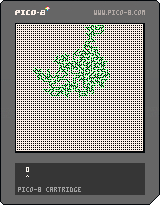
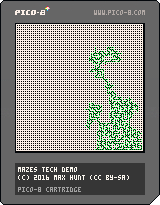
Added title and copyright lines.

diff --git a/mazes.js b/mazes.js
@@ -68,13 +68,13 @@ var _cartdat=[
 0,0,0,0,0,0,0,0,0,0,0,0,0,0,0,0,0,16,0,0,0,0,0,0,0,0,0,0,0,0,0,0,0,0,0,0,0,0,0,0,0,0,0,0,0,0,0,0,0,0,0,0,0,0,0,0,0,0,0,0,0,0,0,0,0,0,0,0,0,0,0,0,0,0,0,0,0,0,0,0,0,0,0,0,0,16,0,0,0,0,0,0,0,0,0,0,0,0,0,0,0,0,0,0,0,0,0,0,0,0,0,0,0,0,0,0,0,0,0,0,0,0,0,0,0,0,0,0,0,0,0,0,0,0,0,0,0,0,0,0,0,0,0,0,0,0,0,0,0,0,0,0,0,16,0,0,0,0,0,0,0,0,0,0,0,0,0,0,0,0,0,0,0,0,0,0,0,0,0,0,0,0,0,0,0,0,0,0,0,0,0,0,0,0,0,0,0,0,0,0,0,0,0,0,0,0,0,0,0,0,0,0,0,0,0,0,0,0,0,0,0,16,0,0,0,0,0,0,0,0,0,0,0,0,0,0,0,0,0,0,0,0,0,0,0,0,0,0,0,0,0,0,0,0,0,0,
 0,0,0,0,0,0,0,0,0,0,0,0,0,0,0,0,0,0,0,0,0,0,0,0,0,0,0,0,0,0,0,0,0,16,0,0,0,0,0,0,0,0,0,0,0,0,0,0,0,0,0,0,0,0,0,0,0,0,0,0,0,0,0,0,0,0,0,0,0,0,0,0,0,0,0,0,0,0,0,0,0,0,0,0,0,0,0,0,0,0,0,0,0,0,0,0,0,0,0,0,0,16,0,0,0,0,0,0,0,0,0,0,0,0,0,0,0,0,0,0,0,0,0,0,0,0,0,0,0,0,0,0,0,0,0,0,0,0,0,0,0,0,0,0,0,0,0,0,0,0,0,0,0,0,0,0,0,0,0,0,0,0,0,0,0,0,0,0,0,16,0,0,0,0,0,0,0,0,0,0,0,0,0,0,0,0,0,0,0,0,0,0,0,0,0,0,0,0,0,0,0,0,0,0,0,0,0,0,0,0,0,0,0,0,0,0,0,0,0,0,0,0,0,0,0,0,0,0,0,0,0,0,0,0,0,0,0,16,0,0,0,0,0,0,0,0,0,0,0,0,0,0,0,0,0,0,
 0,0,0,0,0,0,0,0,0,0,0,0,0,0,0,0,0,0,0,0,0,0,0,0,0,0,0,0,0,0,0,0,0,0,0,0,0,0,0,0,0,0,0,0,0,0,0,0,0,16,0,0,0,0,0,0,0,0,0,0,0,0,0,0,0,0,0,0,0,0,0,0,0,0,0,0,0,0,0,0,0,0,0,0,0,0,0,0,0,0,0,0,0,0,0,0,0,0,0,0,0,0,0,0,0,0,0,0,0,0,0,0,0,0,0,0,0,16,0,0,0,0,0,0,0,0,0,0,0,0,0,0,0,0,0,0,0,0,0,0,0,0,0,0,0,0,0,0,0,0,0,0,0,0,0,0,0,0,0,0,0,0,0,0,0,0,0,0,0,0,0,0,0,0,0,0,0,0,0,0,0,0,0,0,0,16,0,0,0,0,0,0,0,0,0,0,0,0,0,0,0,0,0,0,0,0,0,0,0,0,0,0,0,0,0,0,0,0,0,0,0,0,0,0,0,0,0,0,0,0,0,0,0,0,0,0,0,0,0,0,0,0,0,0,0,0,0,0,0,0,0,0,0,16,0,0,
-58,99,58,0,18,120,0,0,0,45,0,45,2,2,2,3,1,60,55,0,94,60,71,0,124,60,30,6,48,0,45,27,0,45,49,4,61,129,62,22,34,62,70,5,1,1,25,13,38,17,2,51,2,44,45,1,1,18,33,26,15,32,21,27,26,2,14,24,13,26,23,59,61,42,42,26,57,25,43,1,2,62,37,51,62,19,2,18,27,30,2,21,51,4,57,25,57,4,2,16,27,61,73,46,21,47,61,60,0,9,61,45,22,61,29,26,61,93,0,9,61,111,46,22,62,82,61,145,56,24,17,18,32,67,25,3,61,215,30,21,19,20,61,248,62,31,33,28,62,253,47,56,16,27,35,26,64,244,47,56,34,21,31,21,32,17,16,51,65,28,2,17,26,16,1,60,53,2,30,17,32,33,30,26,72,60,1,61,38,75,144,21,26,13,30,37,59,32,30,17,75,161,77,22,76,249,76,112,74,65,75,114,76,61,2,0,9,21,18,2,42,42,21,51,51,25,43,2,13,26,16,2,42,22,51,51,26,43,43,2,32,20,17,26,61,47,86,17,16,27,2,26,27,32,20,21,
-26,19,63,32,17,24,31,17,63,36,63,67,62,87,2,0,9,76,255,51,2,4,61,201,50,4,80,113,61,42,64,121,67,49,64,249,78,155,64,168,64,21,81,122,64,182,18,24,30,42,30,26,16,42,5,43,43,51,51,3,69,249,69,249,69,249,69,201,68,251,68,251,68,251,0,9,87,55,87,253,87,253,102,29,31,21,16,17,35,21,26,16,17,30,87,252,87,252,87,156,15,33,30,30,17,26,32,59,30,33,26,94,40,88,219,0,9,2,88,27,88,41,88,56,88,39,88,85,0,9,2,2,88,214,0,9,2,88,86,62,63,62,118,105,227,51,88,18,61,167,88,98,61,72,92,89,66,57,114,19,84,242,67,157,15,24,27,31,17,2,71,23,68,61,108,34,51,22,0,45,72,158,50,87,110,61,164,4,43,120,22,69,150,111,41,111,79,69,184,93,34,61,75,33,28,71,81,78,232,74,62,61,234,50,73,238,75,245,75,245,79,40,117,43,90,74,118,241,118,193,13,24,16,27,33,31,59,14,30,27,90,247,134,252,18,24,21,28,42,135,20,16,30,13,35,136,
-68,138,35,61,153,18,21,26,21,31,20,125,31,18,13,101,61,36,139,31,107,98,118,30,50,114,27,37,61,147,25,61,67,138,58,36,47,46,37,129,143,117,20,24,13,31,136,37,32,21,25,17,67,36,35,20,21,24,17,122,33,66,117,125,73,32,27,59,19,27,66,151,7,84,47,2,26,36,51,36,60,39,37,51,37,134,25,127,28,62,55,115,18,124,122,62,18,25,13,36,42,4,57,36,0,45,4,63,34,101,38,147,51,26,68,26,26,68,139,39,51,4,127,126,62,241,70,108,61,107,72,69,90,65,62,239,93,98,160,25,64,60,28,31,17,32,42,26,37,53,5,0,45,153,23,36,53,5,57,3,68,55,117,94,135,78,71,86,5,71,182,21,26,42,25,57,36,99,24,71,246,71,246,71,246,71,246,83,139,70,144,76,184,72,126,71,134,71,69,71,244,71,180,6,82,138,37,82,90,37,82,250,82,250,82,250,82,250,82,186,122,102,85,235,125,119,82,253,82,59,83,18,82,253,94,115,90,143,71,41,82,29,26,57,37,82,253,94,243,94,243,94,243,94,179,70,
-161,99,182,73,146,83,176,82,46,71,231,152,56,85,193,96,28,4,104,63,36,51,26,108,33,37,51,26,108,33,62,245,11,110,37,110,40,27,35,51,114,98,149,24,42,119,56,177,118,197,67,3,57,40,200,42,102,18,197,41,103,72,3,57,21,57,10,43,102,93,197,109,62,55,46,4,47,62,186,22,57,3,62,202,186,132,63,138,157,106,63,83,108,29,2,21,60,37,10,145,75,117,107,155,164,120,123,159,23,63,199,113,16,63,105,188,37,114,30,62,243,62,35,114,47,62,35,142,58,66,228,155,60,66,243,69,42,65,46,69,172,151,116,62,242,66,50,121,114,72,230,208,105,129,175,62,90,89,175,140,38,51,86,22,91,112,86,72,14,32,26,28,42,8,204,16,211,170,176,48,15,20,17,15,23,148,121,88,37,142,111,144,28,30,33,191,34,210,218,84,246,70,250,140,217,83,34,154,234,80,138,193,255,221,220,140,32,236,127,160,154,236,28,15,24,31,161,47,15,4,51,10,192,22,5,60,54,6,60,44,243,31,142,30,2,16,17,14,33,19,155,18,72,57,2,31,
-27,25,17,35,20,17,30,17,61,34,19,17,32,62,55,62,67,15,27,24,27,33,30,31,62,43,20,17,24,28,2,16,21,13,19,26,185,44,167,42,222,17,2,64,24,31,1,196,41,42,65,52,224,72,67,41,11,67,40,4,4,67,40,4,5,234,66,108,134,108,243,108,99,108,130,107,255,107,159,250,98,40,234,211,63,54,249,87,108,209,15,165,44,207,50,25,107,254,207,101,107,253,15,5,197,50,105,90,63,156,105,246,105,245,15,6,63,155,250,112,249,51,25,17,26,33,59,251,28,25,31,51,44,44,0,34,249,152,0,34,57,250,149,45,57,174,57,174,45,175,33,44,0,34,194,64,0,45,194,80,31,24,27,35,57,30,17,15,54,31,21,38,17,48,6,3,43,0,34,57,196,194,64,240,228,132,62,27,229,129,45,45,1,21,26,59,69,36,51,105,54,31,17,24,17,15,191,74,250,35,59,18,245,34,70,149,61,70,67,38,251,18,9,6,234,165,32,13,30,32,59,93,89,201,46,64,128,75,131,46,66,96,47,46,5,47,236,120,66,90,204,54,65,60,57,66,
-118,238,29,70,96,204,76,241,202,208,66,81,18,42,43,188,30,107,88,28,30,21,26,32,42,0,34,72,75,213,25,19,27,30,21,32,20,25,54,78,20,9,57,2,4,141,80,62,86,48,245,30,38,17,54,0,34,56,56,73,122,56,56,0,34,2,49,62,77,3,143,76,99,130,87,125,207,70,107,42,79,99,2,51,51,2,21,43,67,110,64,17,153,29,53,9,50,4,7,148,64,69,87,76,156,243,27,4,47,57,8,62,102,150,37,94,118,121,186,221,51,223,84,251,37,87,65,212,99,76,148,230,22,235,59,225,250,232,41,206,31,227,89,231,202,33,28,16,13,32,221,140,141,36,42,249,67,166,22,167,46,230,94,236,60,252,18,143,52,7,169,125,91,248,62,104,145,109,2,13,67,28,227,33,98,89,173,119,224,31,61,151,225,114,73,111,146,120,243,143,75,157,65,37,151,62,5,68,138,84,121,85,133,229,21,41,42,87,151,218,63,64,252,64,108,6,64,252,64,172,222,27,64,252,74,142,111,122,79,42,63,115,244,34,71,246,163,20,81,30,240,82,113,113,0,45,
-246,46,74,247,74,103,4,63,241,17,65,61,234,56,117,117,244,60,112,135,136,33,61,156,235,34,114,115,9,134,19,112,205,111,22,30,27,254,36,24,27,15,13,24,199,34,1,2,31,18,36,70,28,93,91,89,51,114,26,106,25,93,62,254,17,162,91,2,31,28,30,200,29,2,8,195,18,7,111,21,195,25,143,45,61,55,4,11,115,24,60,20,7,206,61,62,41,6,197,24,8,109,23,8,10,57,2,6,62,90,207,21,21,49,4,79,43,64,26,5,57,9,3,57,7,248,57,107,104,2,21,74,127,144,55,70,109,1,103,69,181,35,69,67,111,97,105,119,252,42,0,0,0,0,0,0,0,0,0,0,0,0,0,0,0,0,0,0,0,0,0,0,0,0,0,0,0,0,0,0,0,0,0,0,0,0,0,0,0,0,0,0,0,0,0,0,0,0,0,0,0,0,0,0,0,0,0,0,0,0,0,0,0,0,0,0,0,0,0,0,0,0,0,0,0,0,0,0,0,0,0,0,0,0,0,0,0,0,0,0,0,0,0,0,0,0,0,0,0,0,0,0,0,0,0,0,
+58,99,58,0,18,172,0,0,0,45,0,45,2,25,13,38,17,31,2,32,17,15,20,2,16,17,25,27,1,61,19,42,15,43,2,5,3,4,9,61,28,36,2,20,33,26,32,61,18,15,2,14,37,0,45,31,13,43,1,62,33,2,2,3,60,71,0,94,60,78,0,124,63,22,6,48,0,45,27,0,45,49,4,61,129,62,22,34,62,77,5,1,1,66,38,2,51,2,44,45,1,1,18,33,26,15,32,21,27,26,2,14,24,13,26,23,59,68,32,42,26,57,25,43,1,68,59,51,62,19,2,18,27,30,2,21,51,4,57,25,57,4,2,16,27,61,73,46,21,47,61,60,0,9,61,45,22,61,29,26,61,93,0,9,61,111,46,22,62,82,61,145,56,24,17,18,32,67,25,3,61,215,30,21,19,20,61,248,62,31,33,28,62,253,47,56,16,27,35,26,64,244,47,56,34,21,31,21,32,17,16,51,65,28,2,17,26,16,1,60,53,2,30,17,32,33,30,26,81,55,1,61,38,75,144,21,26,13,30,37,59,32,30,17,75,161,77,22,76,249,76,112,74,65,75,114,
+76,61,2,0,9,21,18,2,42,42,21,51,51,25,43,2,13,26,16,2,42,22,51,51,26,43,43,2,32,20,17,26,61,47,89,21,16,27,2,26,27,32,20,21,26,19,63,32,17,24,31,17,63,36,63,67,62,87,2,0,9,76,255,51,2,4,61,201,50,4,80,113,61,42,64,121,67,49,64,249,78,155,64,168,64,21,81,122,64,182,18,24,30,42,30,26,16,42,5,43,43,51,51,3,69,249,69,249,69,249,69,201,68,251,68,251,68,251,0,9,87,55,87,253,87,253,102,29,31,21,16,17,35,21,26,16,17,30,87,252,87,252,87,156,15,33,30,30,17,26,32,59,30,33,26,94,40,88,219,0,9,2,88,27,88,41,88,56,88,39,88,85,0,9,2,2,88,214,0,9,2,88,86,62,63,62,118,105,227,51,88,18,61,167,88,98,61,72,92,89,66,57,114,19,84,242,67,157,15,24,27,31,17,2,71,23,68,61,108,34,51,22,0,45,72,158,50,87,110,61,164,4,43,120,22,69,150,111,41,111,79,69,184,93,34,61,75,33,28,71,81,78,232,74,62,61,
+234,50,73,238,75,245,75,245,79,40,117,43,90,74,118,241,118,193,13,24,16,27,33,31,59,14,30,27,90,247,134,252,18,24,21,28,42,135,20,16,30,13,35,136,68,144,41,61,153,18,21,26,21,31,20,125,31,18,13,101,61,36,139,31,107,98,118,30,50,114,27,37,61,147,25,61,67,138,58,36,47,46,37,129,143,117,20,24,13,31,136,37,32,21,25,17,67,36,35,20,21,24,17,122,33,66,117,125,73,32,27,59,19,27,66,151,7,84,47,2,26,36,51,36,60,39,37,51,37,134,25,127,28,62,55,115,18,124,122,62,18,154,26,42,4,57,36,0,45,4,63,34,101,38,147,51,26,68,26,26,68,139,39,51,4,127,126,62,241,70,108,61,107,72,69,90,65,62,239,93,98,160,25,64,60,28,31,17,32,42,26,37,53,5,0,45,153,23,36,53,5,57,3,68,55,117,94,135,78,71,86,5,71,182,21,26,42,25,57,36,99,24,71,246,71,246,71,246,71,246,83,139,70,144,76,184,72,126,71,134,71,69,71,244,71,180,6,82,138,37,82,90,37,82,250,82,
+250,82,250,82,250,82,186,122,102,85,235,125,119,82,253,82,59,83,18,82,253,94,115,90,143,71,41,82,29,26,57,37,82,253,94,243,94,243,94,243,94,179,70,161,99,182,73,146,83,176,82,46,71,231,152,56,85,193,96,28,4,104,63,36,51,26,108,33,37,51,26,108,33,62,245,11,110,37,110,40,27,35,51,114,98,149,24,42,119,56,177,118,197,67,3,57,40,207,32,102,18,197,41,103,72,3,57,21,57,10,43,102,93,197,109,62,55,46,4,47,62,186,22,57,3,62,202,186,132,63,138,157,106,63,83,108,29,2,21,60,37,10,145,75,117,107,155,164,120,123,159,23,63,199,113,16,63,105,188,37,114,30,62,243,62,35,114,47,62,35,142,58,66,228,155,60,66,243,69,42,65,46,69,172,151,116,62,242,66,50,121,114,72,230,208,105,129,175,62,90,89,175,140,38,51,86,22,91,112,86,72,14,32,26,28,42,8,204,16,211,170,176,48,15,20,17,15,23,148,121,88,37,142,111,144,28,30,33,191,34,210,218,84,246,70,250,140,217,83,34,154,234,80,138,193,255,
+221,220,140,32,236,127,160,154,236,28,15,24,31,161,47,15,4,51,10,192,22,5,60,54,6,60,44,247,19,142,30,246,28,14,33,19,155,18,72,57,2,31,27,25,17,35,20,17,30,17,61,34,19,17,32,62,55,62,67,15,27,24,27,33,30,250,18,27,2,20,17,24,28,2,16,21,13,19,26,185,44,167,42,222,17,2,64,24,31,1,196,41,42,65,52,224,72,67,41,11,67,40,4,4,67,40,4,5,234,66,108,134,108,243,108,99,108,130,107,255,107,159,250,98,40,234,211,63,54,249,87,108,209,15,165,44,207,50,25,107,254,207,101,107,253,15,5,197,50,105,90,63,156,105,246,105,245,15,6,63,155,250,112,249,51,25,17,26,33,59,251,28,25,31,51,44,44,0,34,249,152,0,34,57,250,149,45,57,174,57,174,45,175,33,44,0,34,194,64,0,45,194,80,31,24,27,35,57,30,17,15,54,31,21,38,17,48,6,3,43,0,34,57,196,194,64,240,228,132,62,27,229,129,45,45,1,21,26,59,69,36,51,105,54,31,17,24,17,15,191,74,250,35,59,18,245,
+34,70,149,61,70,67,38,251,18,9,6,234,165,32,13,30,32,59,93,89,201,46,64,128,75,131,46,66,96,47,46,5,47,236,120,66,90,204,54,65,60,57,66,118,238,29,70,96,204,76,241,202,208,66,81,18,42,43,188,30,107,88,28,30,21,26,32,42,0,34,72,75,213,25,19,27,30,21,32,20,25,54,78,20,9,57,2,4,141,80,62,86,48,245,30,38,17,54,0,34,56,56,73,122,56,56,0,34,2,49,62,77,3,143,76,99,130,87,125,207,70,107,42,79,99,2,51,51,2,21,43,67,110,64,17,153,29,53,9,50,4,7,148,64,69,87,76,156,243,27,4,47,57,8,62,102,150,37,94,118,121,186,221,51,223,84,251,37,87,65,212,99,76,148,230,22,235,59,225,250,232,41,206,31,227,89,231,202,33,28,16,13,32,221,140,141,36,42,249,67,166,22,167,46,230,94,236,60,252,18,143,52,7,169,125,91,248,62,104,145,109,2,13,67,28,227,33,98,89,173,119,224,31,61,151,225,114,73,111,146,120,243,143,75,157,65,37,151,62,5,68,138,84,121,85,133,
+229,21,41,42,87,151,218,63,64,252,64,108,6,64,252,64,172,222,27,64,252,74,142,111,122,79,42,63,115,244,34,71,246,163,20,81,30,240,82,113,113,0,45,246,46,74,247,74,103,4,63,241,17,65,61,234,56,117,117,244,60,112,135,136,33,61,156,235,34,114,115,9,134,19,112,205,111,22,30,27,254,36,24,27,15,13,24,199,34,1,2,31,18,36,70,28,93,91,89,51,114,26,106,25,93,62,254,17,162,91,2,31,28,30,200,29,2,8,195,18,7,111,21,195,25,143,45,61,55,4,11,115,24,60,20,7,206,61,62,41,6,197,24,8,109,23,8,10,57,2,6,62,90,207,21,21,49,4,79,43,64,26,5,57,9,3,57,7,248,57,107,104,2,21,74,127,144,55,70,109,1,103,69,181,35,69,67,111,97,105,119,252,42,0,0,0,0,0,0,0,0,0,0,0,0,0,0,0,0,0,0,0,0,0,0,0,0,0,0,0,0,0,0,0,0,0,0,0,0,0,0,0,0,0,0,0,0,0,0,0,0,0,0,0,0,0,0,0,0,0,0,0,0,0,0,0,
 0,0,0,0,0,0,0,0,0,0,0,0,0,0,0,0,0,0,0,0,0,0,0,0,0,0,0,0,0,0,0,0,0,0,0,0,0,0,0,0,0,0,0,0,0,0,0,0,0,0,0,0,0,0,0,0,0,0,0,0,0,0,0,0,0,0,0,0,0,0,0,0,0,0,0,0,0,0,0,0,0,0,0,0,0,0,0,0,0,0,0,0,0,0,0,0,0,0,0,0,0,0,0,0,0,0,0,0,0,0,0,0,0,0,0,0,0,0,0,0,0,0,0,0,0,0,0,0,0,0,0,0,0,0,0,0,0,0,0,0,0,0,0,0,0,0,0,0,0,0,0,0,0,0,0,0,0,0,0,0,0,0,0,0,0,0,0,0,0,0,0,0,0,0,0,0,0,0,0,0,0,0,0,0,0,0,0,0,0,0,0,0,0,0,0,0,0,0,0,0,0,0,0,0,0,0,0,0,0,0,0,0,0,0,0,0,0,0,0,0,0,0,0,0,0,0,0,0,0,0,0,0,0,0,0,0,0,0,0,0,0,0,0,0,0,0,0,0,0,0,0,0,0,0,0,0,
 0,0,0,0,0,0,0,0,0,0,0,0,0,0,0,0,0,0,0,0,0,0,0,0,0,0,0,0,0,0,0,0,0,0,0,0,0,0,0,0,0,0,0,0,0,0,0,0,0,0,0,0,0,0,0,0,0,0,0,0,0,0,0,0,0,0,0,0,0,0,0,0,0,0,0,0,0,0,0,0,0,0,0,0,0,0,0,0,0,0,0,0,0,0,0,0,0,0,0,0,0,0,0,0,0,0,0,0,0,0,0,0,0,0,0,0,0,0,0,0,0,0,0,0,0,0,0,0,0,0,0,0,0,0,0,0,0,0,0,0,0,0,0,0,0,0,0,0,0,0,0,0,0,0,0,0,0,0,0,0,0,0,0,0,0,0,0,0,0,0,0,0,0,0,0,0,0,0,0,0,0,0,0,0,0,0,0,0,0,0,0,0,0,0,0,0,0,0,0,0,0,0,0,0,0,0,0,0,0,0,0,0,0,0,0,0,0,0,0,0,0,0,0,0,0,0,0,0,0,0,0,0,0,0,0,0,0,0,0,0,0,0,0,0,0,0,0,0,0,0,0,0,0,0,0,0,
 0,0,0,0,0,0,0,0,0,0,0,0,0,0,0,0,0,0,0,0,0,0,0,0,0,0,0,0,0,0,0,0,0,0,0,0,0,0,0,0,0,0,0,0,0,0,0,0,0,0,0,0,0,0,0,0,0,0,0,0,0,0,0,0,0,0,0,0,0,0,0,0,0,0,0,0,0,0,0,0,0,0,0,0,0,0,0,0,0,0,0,0,0,0,0,0,0,0,0,0,0,0,0,0,0,0,0,0,0,0,0,0,0,0,0,0,0,0,0,0,0,0,0,0,0,0,0,0,0,0,0,0,0,0,0,0,0,0,0,0,0,0,0,0,0,0,0,0,0,0,0,0,0,0,0,0,0,0,0,0,0,0,0,0,0,0,0,0,0,0,0,0,0,0,0,0,0,0,0,0,0,0,0,0,0,0,0,0,0,0,0,0,0,0,0,0,0,0,0,0,0,0,0,0,0,0,0,0,0,0,0,0,0,0,0,0,0,0,0,0,0,0,0,0,0,0,0,0,0,0,0,0,0,0,0,0,0,0,0,0,0,0,0,0,0,0,0,0,0,0,0,0,0,0,0,0,

diff --git a/reactor.js b/reactor.js
@@ -68,11 +68,11 @@ var _cartdat=[
 0,0,0,0,0,0,0,0,0,0,0,0,0,0,0,0,0,16,0,0,0,0,0,0,0,0,0,0,0,0,0,0,0,0,0,0,0,0,0,0,0,0,0,0,0,0,0,0,0,0,0,0,0,0,0,0,0,0,0,0,0,0,0,0,0,0,0,0,0,0,0,0,0,0,0,0,0,0,0,0,0,0,0,0,0,16,0,0,0,0,0,0,0,0,0,0,0,0,0,0,0,0,0,0,0,0,0,0,0,0,0,0,0,0,0,0,0,0,0,0,0,0,0,0,0,0,0,0,0,0,0,0,0,0,0,0,0,0,0,0,0,0,0,0,0,0,0,0,0,0,0,0,0,16,0,0,0,0,0,0,0,0,0,0,0,0,0,0,0,0,0,0,0,0,0,0,0,0,0,0,0,0,0,0,0,0,0,0,0,0,0,0,0,0,0,0,0,0,0,0,0,0,0,0,0,0,0,0,0,0,0,0,0,0,0,0,0,0,0,0,0,16,0,0,0,0,0,0,0,0,0,0,0,0,0,0,0,0,0,0,0,0,0,0,0,0,0,0,0,0,0,0,0,0,0,0,
 0,0,0,0,0,0,0,0,0,0,0,0,0,0,0,0,0,0,0,0,0,0,0,0,0,0,0,0,0,0,0,0,0,16,0,0,0,0,0,0,0,0,0,0,0,0,0,0,0,0,0,0,0,0,0,0,0,0,0,0,0,0,0,0,0,0,0,0,0,0,0,0,0,0,0,0,0,0,0,0,0,0,0,0,0,0,0,0,0,0,0,0,0,0,0,0,0,0,0,0,0,16,0,0,0,0,0,0,0,0,0,0,0,0,0,0,0,0,0,0,0,0,0,0,0,0,0,0,0,0,0,0,0,0,0,0,0,0,0,0,0,0,0,0,0,0,0,0,0,0,0,0,0,0,0,0,0,0,0,0,0,0,0,0,0,0,0,0,0,16,0,0,0,0,0,0,0,0,0,0,0,0,0,0,0,0,0,0,0,0,0,0,0,0,0,0,0,0,0,0,0,0,0,0,0,0,0,0,0,0,0,0,0,0,0,0,0,0,0,0,0,0,0,0,0,0,0,0,0,0,0,0,0,0,0,0,0,16,0,0,0,0,0,0,0,0,0,0,0,0,0,0,0,0,0,0,
 0,0,0,0,0,0,0,0,0,0,0,0,0,0,0,0,0,0,0,0,0,0,0,0,0,0,0,0,0,0,0,0,0,0,0,0,0,0,0,0,0,0,0,0,0,0,0,0,0,16,0,0,0,0,0,0,0,0,0,0,0,0,0,0,0,0,0,0,0,0,0,0,0,0,0,0,0,0,0,0,0,0,0,0,0,0,0,0,0,0,0,0,0,0,0,0,0,0,0,0,0,0,0,0,0,0,0,0,0,0,0,0,0,0,0,0,0,16,0,0,0,0,0,0,0,0,0,0,0,0,0,0,0,0,0,0,0,0,0,0,0,0,0,0,0,0,0,0,0,0,0,0,0,0,0,0,0,0,0,0,0,0,0,0,0,0,0,0,0,0,0,0,0,0,0,0,0,0,0,0,0,0,0,0,0,16,0,0,0,0,0,0,0,0,0,0,0,0,0,0,0,0,0,0,0,0,0,0,0,0,0,0,0,0,0,0,0,0,0,0,0,0,0,0,0,0,0,0,0,0,0,0,0,0,0,0,0,0,0,0,0,0,0,0,0,0,0,0,0,0,0,0,0,16,0,0,
-58,99,58,0,10,212,0,0,28,13,30,32,21,15,24,17,31,2,51,2,44,45,1,17,36,28,24,27,31,21,27,26,61,80,28,36,61,24,9,7,1,28,37,60,88,24,21,34,17,62,27,32,30,33,17,1,60,44,63,40,6,1,13,26,21,25,64,17,3,1,1,24,17,34,17,24,59,26,33,25,51,4,60,76,26,51,6,3,1,32,13,30,19,17,32,51,9,1,32,51,62,20,18,33,26,15,32,66,20,2,30,17,31,17,32,59,68,115,42,43,1,2,69,224,26,16,63,144,19,17,26,17,30,13,32,17,63,147,26,63,20,18,27,30,2,21,51,4,57,26,2,16,27,1,2,2,24,27,15,13,24,2,36,51,30,26,16,42,4,5,11,65,21,61,83,37,61,243,2,13,62,70,62,132,21,51,15,27,31,42,13,63,133,22,51,31,21,26,61,161,15,51,18,24,30,42,65,61,8,43,43,50,4,67,18,13,16,16,42,80,121,57,2,44,36,51,36,57,37,51,37,57,21,51,21,57,22,51,22,57,15,51,15,45,73,28,72,45,73,193,33,28,16,72,207,72,
-94,28,2,21,26,2,13,24,24,65,134,43,73,76,28,56,36,2,50,51,60,23,21,74,25,21,18,2,42,61,33,48,83,26,43,2,32,20,17,26,75,30,62,51,84,43,60,59,21,85,38,0,45,62,79,80,44,63,133,49,51,2,77,45,63,215,79,16,63,249,71,56,67,60,37,67,76,22,67,124,37,67,252,94,40,67,92,22,67,92,62,47,67,172,37,67,252,63,71,67,124,63,249,79,249,2,16,30,13,35,79,247,79,247,79,135,98,24,42,87,39,80,16,43,57,2,60,74,37,60,26,28,56,15,85,249,101,42,15,30,17,98,40,108,127,42,36,57,2,37,57,2,25,13,36,30,102,21,98,66,110,28,111,37,90,45,97,27,61,30,30,100,20,62,51,51,62,40,45,1,93,56,113,130,57,63,34,106,19,31,18,36,99,34,92,250,67,177,92,123,66,38,92,93,117,141,92,94,118,30,56,30,93,32,100,37,92,30,61,64,89,26,61,41,70,44,93,117,16,17,63,175,68,106,93,83,99,242,99,162,112,95,16,5,126,17,98,62,0,45,67,55,36,43,53,99,
-44,0,45,60,76,2,50,92,62,60,62,37,61,58,60,108,101,34,102,24,63,31,102,22,71,48,53,71,70,102,111,82,251,105,35,85,41,82,31,6,3,64,48,71,62,114,144,71,59,104,95,94,240,94,144,80,253,80,253,80,173,15,21,30,15,86,46,67,46,72,56,60,71,30,57,2,32,41,4,9,119,255,119,175,24,13,37,17,30,135,46,117,18,142,66,116,93,118,34,14,32,26,42,3,43,43,2,28,36,0,45,141,20,61,132,4,61,52,50,61,52,28,36,51,25,21,16,42,3,57,28,36,57,135,83,63,107,5,63,43,37,63,203,6,61,52,63,91,37,63,107,37,63,155,67,21,28,42,7,125,149,151,88,18,13,24,31,17,126,38,106,241,68,27,11,64,20,60,21,83,86,153,36,71,49,116,243,116,163,75,251,132,104,31,28,30,42,6,8,73,33,69,25,5,57,5,140,32,67,28,135,36,158,46,48,51,6,135,115,62,59,6,50,5,53,160,39,63,178,68,53,78,51,143,252,124,67,20,33,16,159,54,30,21,26,32,42,0,34,163,61,54,0,34,56,56,
-164,118,57,3,57,3,57,10,62,146,167,35,0,34,57,12,61,103,159,107,168,75,159,63,71,89,159,26,0,45,4,9,53,21,57,9,71,110,151,254,167,79,171,50,167,43,168,254,1,167,241,170,20,173,69,170,42,176,171,93,30,178,73,90,28,179,66,171,202,59,21,26,21,32,66,133,67,100,173,207,26,17,36,68,159,130,39,83,38,180,70,0,45,51,6,60,91,181,45,99,54,64,251,67,160,165,74,181,34,32,102,51,162,28,186,63,49,51,3,162,106,167,253,178,42,136,248,61,166,110,137,167,44,40,194,141,51,65,22,13,26,16,2,26,27,32,112,193,62,56,198,116,48,192,72,127,140,75,194,170,19,105,94,146,52,6,127,77,198,54,115,75,2,87,227,128,198,109,75,111,254,64,83,80,33,193,29,201,116,60,109,202,93,65,253,167,252,88,124,167,45,202,44,15,24,203,51,81,251,150,31,169,255,137,242,61,116,81,149,109,163,76,91,109,90,19,13,25,17,2,27,34,17,30,0,34,57,7,3,57,9,7,109,52,197,112,213,130,112,23,30,27,212,40,204,110,
-192,24,167,32,148,41,35,20,21,24,17,137,64,43,2,51,195,52,143,73,72,71,123,50,3,57,2,8,5,57,2,66,20,2,60,23,120,51,124,41,4,11,57,2,9,60,20,7,212,62,125,59,62,22,8,7,62,30,10,154,23,62,90,21,18,42,21,49,4,200,27,127,44,5,57,9,3,70,28,215,46,18,24,21,28,95,69,142,78,62,56,12,3,43,14,182,21,23,209,151,71,109,0,0,0,0,0,0,0,0,0,0,0,0,0,0,0,0,0,0,0,0,0,0,0,0,0,0,0,0,0,0,0,0,0,0,0,0,0,0,0,0,0,0,0,0,0,0,0,0,0,0,0,0,0,0,0,0,0,0,0,0,0,0,0,0,0,0,0,0,0,0,0,0,0,0,0,0,0,0,0,0,0,0,0,0,0,0,0,0,0,0,0,0,0,0,0,0,0,0,0,0,0,0,0,0,0,0,0,0,0,0,0,0,0,0,0,0,0,0,0,0,0,0,0,0,0,0,0,0,0,0,0,0,0,0,0,0,0,0,0,0,0,0,0,0,0,0,0,0,0,0,0,0,0,0,
+58,99,58,0,11,5,0,0,0,45,0,45,2,30,17,13,15,32,27,30,2,34,4,56,3,1,61,16,42,15,43,2,5,3,4,9,2,25,13,36,2,20,33,26,32,61,18,15,2,14,37,0,45,31,13,43,1,1,28,13,30,32,21,15,24,17,31,2,51,2,44,45,1,17,36,28,24,27,31,21,27,26,61,80,28,36,61,24,9,7,1,28,37,60,88,24,21,34,17,62,27,32,30,33,17,1,60,44,63,40,6,1,13,26,21,25,64,17,3,1,1,24,17,34,17,24,59,26,33,25,51,4,60,76,26,51,6,3,1,32,13,30,19,17,32,51,9,1,32,51,62,20,18,33,26,15,32,66,20,70,27,31,17,32,59,68,115,42,43,1,2,69,224,26,16,63,144,19,17,26,17,30,13,32,17,63,147,26,63,20,18,74,30,21,51,4,57,26,2,16,27,1,2,2,24,27,15,13,24,2,36,51,30,26,16,42,4,5,11,65,21,61,83,37,61,243,2,13,62,70,62,132,21,51,15,27,31,42,77,26,64,104,22,51,31,21,26,61,161,15,51,18,24,30,42,65,
+61,8,43,43,50,4,67,18,13,16,16,42,80,121,57,2,44,36,51,36,57,37,51,37,57,21,51,21,57,22,51,22,57,15,51,15,45,73,28,72,45,73,193,33,28,16,72,207,72,94,28,2,21,26,2,13,24,24,65,134,43,73,76,28,56,36,2,50,51,60,23,21,74,25,21,18,2,42,61,33,48,83,26,43,2,32,20,17,26,75,30,62,51,84,43,60,59,21,85,38,0,45,62,79,80,44,63,133,49,51,2,77,45,63,215,79,16,63,249,71,56,67,60,37,67,76,22,67,124,37,67,252,94,40,67,92,22,67,92,62,47,67,172,37,67,252,63,71,67,124,63,249,79,249,2,16,30,13,35,79,247,79,247,79,135,98,24,42,87,39,80,16,43,57,2,60,74,37,60,26,28,56,15,85,249,101,42,15,112,22,98,24,108,127,42,36,57,2,37,57,112,35,30,102,21,98,66,110,28,111,37,90,45,97,27,61,30,30,100,20,62,51,51,62,40,45,1,93,56,113,130,57,63,34,106,19,31,18,36,99,34,92,250,67,177,92,123,66,38,92,93,117,141,92,94,118,
+30,56,30,93,32,100,37,92,30,61,64,89,26,61,41,70,44,93,117,16,17,63,175,68,106,93,83,99,242,99,162,112,95,16,5,126,17,98,62,0,45,67,55,36,43,53,99,44,0,45,60,76,2,50,92,62,60,62,37,61,58,60,108,101,34,102,24,63,31,102,22,71,48,53,71,70,102,111,82,251,105,35,85,41,82,31,6,3,64,48,71,62,114,144,71,59,104,95,94,240,94,144,80,253,80,253,80,173,15,21,30,15,86,46,67,46,72,56,60,71,30,57,2,32,41,4,9,119,255,119,175,24,13,37,17,30,135,46,117,18,142,66,116,93,118,34,14,32,26,42,3,43,43,2,28,36,0,45,141,20,61,132,4,61,52,50,61,52,28,36,51,25,21,16,42,3,57,28,36,57,135,83,63,107,5,63,43,37,63,203,6,61,52,63,91,37,63,107,37,63,155,67,21,28,42,7,125,149,151,88,18,13,24,31,17,126,38,106,241,68,27,11,64,20,60,21,83,86,153,36,71,49,116,243,116,163,75,251,132,104,31,28,30,42,6,8,73,33,69,25,5,57,5,140,32,67,
+28,135,36,158,46,48,51,6,135,115,62,59,6,50,5,53,160,39,63,178,68,53,78,51,143,252,124,67,20,33,16,159,54,30,21,26,32,42,0,34,163,61,54,0,34,56,56,164,118,57,3,57,3,57,10,62,146,167,35,0,34,57,12,61,103,159,107,168,75,159,63,71,89,159,26,0,45,4,9,53,21,57,9,71,110,151,254,167,79,171,50,167,43,168,254,1,167,241,170,20,173,69,170,42,176,171,93,30,178,73,90,28,179,66,171,202,59,21,26,21,32,66,133,67,100,173,207,26,17,36,68,159,130,39,83,38,180,70,0,45,51,6,60,91,181,45,99,54,64,251,67,160,165,74,181,34,32,102,51,162,28,186,63,49,51,3,162,106,167,253,178,42,136,248,61,166,110,137,167,44,40,194,141,51,65,22,13,26,16,2,26,27,32,112,193,62,56,198,116,48,192,72,127,140,75,194,170,19,105,94,146,52,6,127,77,198,54,115,75,2,87,227,128,198,109,75,111,254,64,83,80,33,193,29,201,116,60,109,202,93,65,253,167,252,88,124,167,45,202,44,15,24,203,51,81,251,
+150,31,169,255,137,242,61,116,81,149,109,163,76,91,109,90,19,13,25,17,2,27,34,17,30,0,34,57,7,3,57,9,7,109,52,197,112,213,130,112,23,30,27,212,40,204,110,192,24,167,32,148,41,35,20,21,24,17,137,64,43,2,51,195,52,143,73,72,71,123,50,3,57,2,8,5,57,2,66,20,2,60,23,120,51,124,41,4,11,57,2,9,60,20,7,212,62,125,59,62,22,8,7,62,30,10,154,23,62,90,21,18,42,21,49,4,200,27,127,44,5,57,9,3,70,28,215,46,18,24,21,28,95,69,142,78,62,56,12,3,43,14,234,27,23,209,151,71,109,0,0,0,0,0,0,0,0,0,0,0,0,0,0,0,0,0,0,0,0,0,0,0,0,0,0,0,0,0,0,0,0,0,0,0,0,0,0,0,0,0,0,0,0,0,0,0,0,0,0,0,0,0,0,0,0,0,0,0,0,0,0,0,0,0,0,0,0,0,0,0,0,0,0,0,0,0,0,0,0,0,0,0,0,0,0,0,0,0,0,0,0,0,0,0,0,0,0,0,0,0,0,0,0,0,0,0,
 0,0,0,0,0,0,0,0,0,0,0,0,0,0,0,0,0,0,0,0,0,0,0,0,0,0,0,0,0,0,0,0,0,0,0,0,0,0,0,0,0,0,0,0,0,0,0,0,0,0,0,0,0,0,0,0,0,0,0,0,0,0,0,0,0,0,0,0,0,0,0,0,0,0,0,0,0,0,0,0,0,0,0,0,0,0,0,0,0,0,0,0,0,0,0,0,0,0,0,0,0,0,0,0,0,0,0,0,0,0,0,0,0,0,0,0,0,0,0,0,0,0,0,0,0,0,0,0,0,0,0,0,0,0,0,0,0,0,0,0,0,0,0,0,0,0,0,0,0,0,0,0,0,0,0,0,0,0,0,0,0,0,0,0,0,0,0,0,0,0,0,0,0,0,0,0,0,0,0,0,0,0,0,0,0,0,0,0,0,0,0,0,0,0,0,0,0,0,0,0,0,0,0,0,0,0,0,0,0,0,0,0,0,0,0,0,0,0,0,0,0,0,0,0,0,0,0,0,0,0,0,0,0,0,0,0,0,0,0,0,0,0,0,0,0,0,0,0,0,0,0,0,0,0,0,0,
 0,0,0,0,0,0,0,0,0,0,0,0,0,0,0,0,0,0,0,0,0,0,0,0,0,0,0,0,0,0,0,0,0,0,0,0,0,0,0,0,0,0,0,0,0,0,0,0,0,0,0,0,0,0,0,0,0,0,0,0,0,0,0,0,0,0,0,0,0,0,0,0,0,0,0,0,0,0,0,0,0,0,0,0,0,0,0,0,0,0,0,0,0,0,0,0,0,0,0,0,0,0,0,0,0,0,0,0,0,0,0,0,0,0,0,0,0,0,0,0,0,0,0,0,0,0,0,0,0,0,0,0,0,0,0,0,0,0,0,0,0,0,0,0,0,0,0,0,0,0,0,0,0,0,0,0,0,0,0,0,0,0,0,0,0,0,0,0,0,0,0,0,0,0,0,0,0,0,0,0,0,0,0,0,0,0,0,0,0,0,0,0,0,0,0,0,0,0,0,0,0,0,0,0,0,0,0,0,0,0,0,0,0,0,0,0,0,0,0,0,0,0,0,0,0,0,0,0,0,0,0,0,0,0,0,0,0,0,0,0,0,0,0,0,0,0,0,0,0,0,0,0,0,0,0,0,
 0,0,0,0,0,0,0,0,0,0,0,0,0,0,0,0,0,0,0,0,0,0,0,0,0,0,0,0,0,0,0,0,0,0,0,0,0,0,0,0,0,0,0,0,0,0,0,0,0,0,0,0,0,0,0,0,0,0,0,0,0,0,0,0,0,0,0,0,0,0,0,0,0,0,0,0,0,0,0,0,0,0,0,0,0,0,0,0,0,0,0,0,0,0,0,0,0,0,0,0,0,0,0,0,0,0,0,0,0,0,0,0,0,0,0,0,0,0,0,0,0,0,0,0,0,0,0,0,0,0,0,0,0,0,0,0,0,0,0,0,0,0,0,0,0,0,0,0,0,0,0,0,0,0,0,0,0,0,0,0,0,0,0,0,0,0,0,0,0,0,0,0,0,0,0,0,0,0,0,0,0,0,0,0,0,0,0,0,0,0,0,0,0,0,0,0,0,0,0,0,0,0,0,0,0,0,0,0,0,0,0,0,0,0,0,0,0,0,0,0,0,0,0,0,0,0,0,0,0,0,0,0,0,0,0,0,0,0,0,0,0,0,0,0,0,0,0,0,0,0,0,0,0,0,0,0,

diff --git a/telegren.js b/telegren.js
@@ -68,10 +68,10 @@ var _cartdat=[
 0,0,0,0,0,0,0,0,0,0,0,0,0,0,0,0,0,16,0,0,0,0,0,0,0,0,0,0,0,0,0,0,0,0,0,0,0,0,0,0,0,0,0,0,0,0,0,0,0,0,0,0,0,0,0,0,0,0,0,0,0,0,0,0,0,0,0,0,0,0,0,0,0,0,0,0,0,0,0,0,0,0,0,0,0,16,0,0,0,0,0,0,0,0,0,0,0,0,0,0,0,0,0,0,0,0,0,0,0,0,0,0,0,0,0,0,0,0,0,0,0,0,0,0,0,0,0,0,0,0,0,0,0,0,0,0,0,0,0,0,0,0,0,0,0,0,0,0,0,0,0,0,0,16,0,0,0,0,0,0,0,0,0,0,0,0,0,0,0,0,0,0,0,0,0,0,0,0,0,0,0,0,0,0,0,0,0,0,0,0,0,0,0,0,0,0,0,0,0,0,0,0,0,0,0,0,0,0,0,0,0,0,0,0,0,0,0,0,0,0,0,16,0,0,0,0,0,0,0,0,0,0,0,0,0,0,0,0,0,0,0,0,0,0,0,0,0,0,0,0,0,0,0,0,0,0,
 0,0,0,0,0,0,0,0,0,0,0,0,0,0,0,0,0,0,0,0,0,0,0,0,0,0,0,0,0,0,0,0,0,16,0,0,0,0,0,0,0,0,0,0,0,0,0,0,0,0,0,0,0,0,0,0,0,0,0,0,0,0,0,0,0,0,0,0,0,0,0,0,0,0,0,0,0,0,0,0,0,0,0,0,0,0,0,0,0,0,0,0,0,0,0,0,0,0,0,0,0,16,0,0,0,0,0,0,0,0,0,0,0,0,0,0,0,0,0,0,0,0,0,0,0,0,0,0,0,0,0,0,0,0,0,0,0,0,0,0,0,0,0,0,0,0,0,0,0,0,0,0,0,0,0,0,0,0,0,0,0,0,0,0,0,0,0,0,0,16,0,0,0,0,0,0,0,0,0,0,0,0,0,0,0,0,0,0,0,0,0,0,0,0,0,0,0,0,0,0,0,0,0,0,0,0,0,0,0,0,0,0,0,0,0,0,0,0,0,0,0,0,0,0,0,0,0,0,0,0,0,0,0,0,0,0,0,16,0,0,0,0,0,0,0,0,0,0,0,0,0,0,0,0,0,0,
 0,0,0,0,0,0,0,0,0,0,0,0,0,0,0,0,0,0,0,0,0,0,0,0,0,0,0,0,0,0,0,0,0,0,0,0,0,0,0,0,0,0,0,0,0,0,0,0,0,16,0,0,0,0,0,0,0,0,0,0,0,0,0,0,0,0,0,0,0,0,0,0,0,0,0,0,0,0,0,0,0,0,0,0,0,0,0,0,0,0,0,0,0,0,0,0,0,0,0,0,0,0,0,0,0,0,0,0,0,0,0,0,0,0,0,0,0,16,0,0,0,0,0,0,0,0,0,0,0,0,0,0,0,0,0,0,0,0,0,0,0,0,0,0,0,0,0,0,0,0,0,0,0,0,0,0,0,0,0,0,0,0,0,0,0,0,0,0,0,0,0,0,0,0,0,0,0,0,0,0,0,0,0,0,0,16,0,0,0,0,0,0,0,0,0,0,0,0,0,0,0,0,0,0,0,0,0,0,0,0,0,0,0,0,0,0,0,0,0,0,0,0,0,0,0,0,0,0,0,0,0,0,0,0,0,0,0,0,0,0,0,0,0,0,0,0,0,0,0,0,0,0,0,16,0,0,
-58,99,58,0,7,87,0,0,18,33,26,15,32,21,27,26,2,21,26,32,30,27,42,43,1,2,24,27,15,13,24,2,21,51,3,1,2,31,18,36,42,3,61,19,35,20,21,24,17,42,14,32,26,42,43,51,51,3,43,16,27,1,2,2,15,24,31,62,46,2,31,28,30,42,4,6,57,8,5,57,7,3,57,5,57,5,61,100,6,4,57,9,11,57,7,11,62,100,7,8,57,8,7,57,8,10,57,6,62,68,21,18,42,21,49,4,3,43,64,48,8,57,9,3,64,16,65,32,18,24,21,28,65,57,21,50,51,4,62,104,12,3,43,14,30,17,13,23,1,2,17,26,16,1,60,36,70,111,1,18,30,13,25,17,70,29,1,28,51,44,36,51,3,57,37,60,20,16,60,41,16,60,42,35,51,10,57,20,51,10,45,1,19,30,17,26,51,44,13,74,28,34,17,51,18,13,24,31,17,57,62,254,62,30,5,62,30,5,45,1,28,16,21,30,65,52,31,28,17,17,16,51,6,1,1,19,51,56,10,8,1,25,13,36,59,19,51,9,67,22,79,103,59,16,30,13,
-35,42,43,2,1,77,97,25,13,28,42,3,57,4,9,57,3,57,60,55,4,9,61,117,61,34,61,132,79,57,57,28,56,36,60,20,37,83,24,21,18,2,42,70,38,56,70,69,43,81,58,5,57,61,51,36,60,71,62,39,1,2,0,45,0,45,2,32,27,16,27,2,30,17,25,27,34,17,54,2,15,27,30,26,17,30,2,16,27,32,31,1,2,28,31,17,32,66,59,83,41,60,61,4,5,10,60,175,69,28,61,17,61,190,61,81,81,43,73,153,33,28,16,13,32,17,93,34,82,51,84,62,70,20,92,38,3,43,2,32,20,17,26,92,22,28,56,82,28,0,45,78,71,60,47,79,40,0,45,87,23,17,82,17,62,93,4,62,205,62,204,62,91,64,106,99,20,64,68,99,29,90,42,67,81,28,42,7,43,2,13,26,16,2,26,27,32,2,78,148,68,102,79,151,51,32,30,33,64,47,79,71,51,81,31,62,96,37,60,29,37,62,109,68,41,90,20,53,5,61,113,37,51,0,45,11,67,85,13,28,28,24,37,59,19,30,13,34,21,32,37,42,28,89,37,82,
-25,59,32,20,21,26,19,60,63,86,251,76,94,63,201,99,35,110,34,113,65,15,51,64,149,61,107,91,20,15,80,107,80,28,36,51,18,24,30,92,69,36,52,11,43,53,69,17,82,35,37,61,135,37,61,119,75,164,105,48,117,20,79,51,110,98,102,132,73,192,32,122,20,32,75,32,25,21,26,42,105,49,57,60,47,50,19,92,82,97,31,82,23,81,28,27,2,31,17,24,18,54,97,25,17,31,26,0,39,32,2,20,84,18,24,17,62,32,27,14,22,17,15,32,0,45,60,71,100,16,24,24,21,31,128,20,31,56,56,56,63,47,101,46,54,2,21,25,28,30,102,16,2,31,15,30,17,17,26,127,16,21,28,28,80,17,62,65,2,13,15,15,27,33,26,32,2,18,27,30,2,35,21,16,32,20,52,20,17,21,19,20,32,113,138,83,148,71,35,133,71,31,32,59,78,69,32,56,36,134,124,32,19,61,150,50,73,28,61,43,61,69,119,17,42,74,40,62,51,107,26,3,43,57,137,33,138,68,126,23,31,19,61,92,0,45,65,42,139,126,35,139,46,117,33,16,
-36,49,106,29,35,51,32,56,35,68,147,85,65,32,119,55,68,131,61,118,68,35,121,34,61,69,68,163,37,68,243,37,68,115,37,68,35,65,130,20,148,33,95,91,82,17,90,100,69,53,37,69,37,20,69,21,20,117,29,80,17,21,51,77,40,57,74,69,16,36,124,27,97,92,20,17,15,23,59,18,24,13,19,31,42,21,50,35,90,24,37,152,33,112,59,99,34,152,22,62,242,71,46,20,62,54,154,21,101,107,82,30,51,21,98,33,118,76,96,32,118,77,69,76,115,84,2,150,84,100,136,69,142,37,69,62,37,149,22,69,254,69,46,88,31,57,21,50,67,72,69,254,62,98,89,27,35,62,118,69,190,37,69,238,156,22,69,254,69,254,144,18,32,33,30,101,27,104,17,139,222,79,170,36,57,149,47,62,92,18,19,146,16,171,31,25,60,40,118,46,118,41,57,119,39,117,43,175,31,144,72,0,0,0,0,0,0,0,0,0,0,0,0,0,0,0,0,0,0,0,0,0,0,0,0,0,0,0,0,0,0,0,0,0,0,0,0,0,0,0,0,0,0,0,0,0,
+58,99,58,0,7,137,0,0,0,45,0,45,2,32,17,24,17,19,30,17,26,2,34,3,56,4,1,61,17,42,15,43,2,5,3,4,10,2,25,13,36,2,20,33,26,32,61,18,15,2,14,37,0,45,31,13,43,1,1,18,33,26,15,32,21,27,26,2,21,26,32,30,27,42,43,1,2,24,27,15,13,24,2,21,51,3,1,2,31,18,36,42,3,61,19,35,20,21,24,17,42,14,32,26,42,43,51,51,3,43,16,27,1,2,2,15,24,31,62,46,2,31,28,30,42,4,6,57,8,5,57,7,3,57,5,57,5,61,100,6,4,57,9,11,57,7,11,62,100,7,8,57,8,7,57,8,10,57,6,62,68,21,18,42,21,49,4,3,43,64,48,8,57,9,3,64,16,65,32,18,24,21,28,65,57,21,50,51,4,62,104,12,3,43,14,30,17,13,23,1,2,17,26,16,1,60,36,70,111,1,18,30,13,25,17,70,29,1,28,51,44,36,51,3,57,37,60,20,16,60,41,16,60,42,35,51,10,57,20,51,10,45,1,77,35,51,44,13,74,28,34,17,51,18,13,24,
+31,17,57,62,254,62,30,5,62,30,5,45,1,28,16,21,30,65,52,31,28,17,17,16,51,6,1,1,19,51,56,10,8,1,80,19,59,19,51,9,79,151,59,16,30,13,35,42,43,2,1,77,97,25,13,28,42,3,57,4,9,57,3,57,60,55,4,9,61,117,61,34,61,132,79,57,57,28,56,36,60,20,37,83,24,21,18,2,42,87,41,56,70,69,43,81,58,5,57,61,51,36,60,71,62,39,1,2,90,37,27,16,27,2,30,17,25,27,34,17,54,2,15,27,30,26,17,30,2,16,27,32,31,1,2,28,31,17,32,66,59,83,41,60,61,4,5,10,60,175,69,28,61,17,61,190,61,81,81,43,73,153,33,28,16,13,32,17,93,34,82,51,84,62,70,20,92,38,3,43,2,32,20,17,26,92,22,28,56,82,28,0,45,78,71,60,47,79,40,0,45,87,23,17,82,17,62,93,4,62,205,62,204,62,91,64,106,99,20,64,68,99,29,90,42,67,81,28,42,7,43,2,13,26,16,2,26,27,32,2,78,148,68,102,79,151,51,32,30,33,64,47,79,71,51,81,
+31,62,96,37,60,29,37,62,109,68,41,90,20,53,5,61,113,37,51,0,45,11,67,85,13,28,28,24,37,59,19,30,13,34,21,32,37,42,28,89,37,82,25,59,32,20,21,26,19,60,63,86,251,76,94,63,201,116,38,110,34,113,65,15,51,64,149,61,107,91,20,15,80,107,80,28,36,51,18,24,30,92,69,36,52,11,43,53,69,17,82,35,37,61,135,37,61,119,75,164,105,48,117,20,79,51,110,98,121,139,73,192,32,122,20,32,75,32,25,21,26,42,105,49,57,60,47,50,19,92,82,128,20,82,23,81,28,27,2,31,17,24,18,54,97,25,17,31,26,0,39,32,2,20,84,18,24,17,129,35,27,14,22,17,15,32,0,45,60,71,100,16,24,24,21,31,128,20,31,56,56,56,131,34,101,46,54,2,21,25,28,30,102,16,2,31,15,30,17,132,31,15,121,24,28,80,17,62,65,2,13,15,15,27,132,44,18,27,30,2,35,21,16,32,20,52,20,17,21,19,20,32,133,129,83,148,71,35,133,71,31,32,59,78,69,32,56,36,134,124,32,19,61,150,50,73,
+28,61,43,61,69,139,20,42,74,40,62,51,107,26,3,43,57,137,33,138,68,126,23,31,19,61,92,0,45,65,42,139,126,35,139,46,117,33,16,36,49,106,29,35,51,32,56,35,68,147,85,65,32,119,55,68,131,61,118,68,35,121,34,61,69,68,163,37,68,243,37,68,115,149,17,65,26,148,113,20,148,33,95,91,82,17,90,100,69,53,37,69,37,20,69,21,20,117,29,80,17,21,51,77,40,57,74,69,16,36,124,27,97,92,20,17,15,23,59,18,24,13,19,31,42,21,50,35,90,24,37,152,33,112,59,99,34,152,22,62,242,71,46,20,62,54,154,21,101,107,82,30,51,21,98,33,118,76,96,32,118,77,69,76,115,84,2,150,84,100,136,69,142,37,69,62,37,149,22,69,254,69,46,88,31,57,21,50,67,72,69,254,62,98,89,27,35,62,118,69,190,37,69,238,156,22,69,254,69,254,144,18,32,33,30,101,27,104,17,139,222,79,170,36,57,149,47,62,92,18,19,146,16,171,31,25,60,40,118,46,118,41,57,119,39,117,43,175,31,144,72,0,0,0,0,0,
 0,0,0,0,0,0,0,0,0,0,0,0,0,0,0,0,0,0,0,0,0,0,0,0,0,0,0,0,0,0,0,0,0,0,0,0,0,0,0,0,0,0,0,0,0,0,0,0,0,0,0,0,0,0,0,0,0,0,0,0,0,0,0,0,0,0,0,0,0,0,0,0,0,0,0,0,0,0,0,0,0,0,0,0,0,0,0,0,0,0,0,0,0,0,0,0,0,0,0,0,0,0,0,0,0,0,0,0,0,0,0,0,0,0,0,0,0,0,0,0,0,0,0,0,0,0,0,0,0,0,0,0,0,0,0,0,0,0,0,0,0,0,0,0,0,0,0,0,0,0,0,0,0,0,0,0,0,0,0,0,0,0,0,0,0,0,0,0,0,0,0,0,0,0,0,0,0,0,0,0,0,0,0,0,0,0,0,0,0,0,0,0,0,0,0,0,0,0,0,0,0,0,0,0,0,0,0,0,0,0,0,0,0,0,0,0,0,0,0,0,0,0,0,0,0,0,0,0,0,0,0,0,0,0,0,0,0,0,0,0,0,0,0,0,0,0,0,0,0,0,0,0,0,0,0,0,
 0,0,0,0,0,0,0,0,0,0,0,0,0,0,0,0,0,0,0,0,0,0,0,0,0,0,0,0,0,0,0,0,0,0,0,0,0,0,0,0,0,0,0,0,0,0,0,0,0,0,0,0,0,0,0,0,0,0,0,0,0,0,0,0,0,0,0,0,0,0,0,0,0,0,0,0,0,0,0,0,0,0,0,0,0,0,0,0,0,0,0,0,0,0,0,0,0,0,0,0,0,0,0,0,0,0,0,0,0,0,0,0,0,0,0,0,0,0,0,0,0,0,0,0,0,0,0,0,0,0,0,0,0,0,0,0,0,0,0,0,0,0,0,0,0,0,0,0,0,0,0,0,0,0,0,0,0,0,0,0,0,0,0,0,0,0,0,0,0,0,0,0,0,0,0,0,0,0,0,0,0,0,0,0,0,0,0,0,0,0,0,0,0,0,0,0,0,0,0,0,0,0,0,0,0,0,0,0,0,0,0,0,0,0,0,0,0,0,0,0,0,0,0,0,0,0,0,0,0,0,0,0,0,0,0,0,0,0,0,0,0,0,0,0,0,0,0,0,0,0,0,0,0,0,0,0,
 0,0,0,0,0,0,0,0,0,0,0,0,0,0,0,0,0,0,0,0,0,0,0,0,0,0,0,0,0,0,0,0,0,0,0,0,0,0,0,0,0,0,0,0,0,0,0,0,0,0,0,0,0,0,0,0,0,0,0,0,0,0,0,0,0,0,0,0,0,0,0,0,0,0,0,0,0,0,0,0,0,0,0,0,0,0,0,0,0,0,0,0,0,0,0,0,0,0,0,0,0,0,0,0,0,0,0,0,0,0,0,0,0,0,0,0,0,0,0,0,0,0,0,0,0,0,0,0,0,0,0,0,0,0,0,0,0,0,0,0,0,0,0,0,0,0,0,0,0,0,0,0,0,0,0,0,0,0,0,0,0,0,0,0,0,0,0,0,0,0,0,0,0,0,0,0,0,0,0,0,0,0,0,0,0,0,0,0,0,0,0,0,0,0,0,0,0,0,0,0,0,0,0,0,0,0,0,0,0,0,0,0,0,0,0,0,0,0,0,0,0,0,0,0,0,0,0,0,0,0,0,0,0,0,0,0,0,0,0,0,0,0,0,0,0,0,0,0,0,0,0,0,0,0,0,0,

diff --git a/3d_demo.js b/3d_demo.js
@@ -68,8 +68,8 @@ var _cartdat=[
 0,0,0,0,0,0,0,0,0,0,0,0,0,0,0,0,0,16,0,0,0,0,0,0,0,0,0,0,0,0,0,0,0,0,0,0,0,0,0,0,0,0,0,0,0,0,0,0,0,0,0,0,0,0,0,0,0,0,0,0,0,0,0,0,0,0,0,0,0,0,0,0,0,0,0,0,0,0,0,0,0,0,0,0,0,16,0,0,0,0,0,0,0,0,0,0,0,0,0,0,0,0,0,0,0,0,0,0,0,0,0,0,0,0,0,0,0,0,0,0,0,0,0,0,0,0,0,0,0,0,0,0,0,0,0,0,0,0,0,0,0,0,0,0,0,0,0,0,0,0,0,0,0,16,0,0,0,0,0,0,0,0,0,0,0,0,0,0,0,0,0,0,0,0,0,0,0,0,0,0,0,0,0,0,0,0,0,0,0,0,0,0,0,0,0,0,0,0,0,0,0,0,0,0,0,0,0,0,0,0,0,0,0,0,0,0,0,0,0,0,0,16,0,0,0,0,0,0,0,0,0,0,0,0,0,0,0,0,0,0,0,0,0,0,0,0,0,0,0,0,0,0,0,0,0,0,
 0,0,0,0,0,0,0,0,0,0,0,0,0,0,0,0,0,0,0,0,0,0,0,0,0,0,0,0,0,0,0,0,0,16,0,0,0,0,0,0,0,0,0,0,0,0,0,0,0,0,0,0,0,0,0,0,0,0,0,0,0,0,0,0,0,0,0,0,0,0,0,0,0,0,0,0,0,0,0,0,0,0,0,0,0,0,0,0,0,0,0,0,0,0,0,0,0,0,0,0,0,16,0,0,0,0,0,0,0,0,0,0,0,0,0,0,0,0,0,0,0,0,0,0,0,0,0,0,0,0,0,0,0,0,0,0,0,0,0,0,0,0,0,0,0,0,0,0,0,0,0,0,0,0,0,0,0,0,0,0,0,0,0,0,0,0,0,0,0,16,0,0,0,0,0,0,0,0,0,0,0,0,0,0,0,0,0,0,0,0,0,0,0,0,0,0,0,0,0,0,0,0,0,0,0,0,0,0,0,0,0,0,0,0,0,0,0,0,0,0,0,0,0,0,0,0,0,0,0,0,0,0,0,0,0,0,0,16,0,0,0,0,0,0,0,0,0,0,0,0,0,0,0,0,0,0,
 0,0,0,0,0,0,0,0,0,0,0,0,0,0,0,0,0,0,0,0,0,0,0,0,0,0,0,0,0,0,0,0,0,0,0,0,0,0,0,0,0,0,0,0,0,0,0,0,0,16,0,0,0,0,0,0,0,0,0,0,0,0,0,0,0,0,0,0,0,0,0,0,0,0,0,0,0,0,0,0,0,0,0,0,0,0,0,0,0,0,0,0,0,0,0,0,0,0,0,0,0,0,0,0,0,0,0,0,0,0,0,0,0,0,0,0,0,16,0,0,0,0,0,0,0,0,0,0,0,0,0,0,0,0,0,0,0,0,0,0,0,0,0,0,0,0,0,0,0,0,0,0,0,0,0,0,0,0,0,0,0,0,0,0,0,0,0,0,0,0,0,0,0,0,0,0,0,0,0,0,0,0,0,0,0,16,0,0,0,0,0,0,0,0,0,0,0,0,0,0,0,0,0,0,0,0,0,0,0,0,0,0,0,0,0,0,0,0,0,0,0,0,0,0,0,0,0,0,0,0,0,0,0,0,0,0,0,0,0,0,0,0,0,0,0,0,0,0,0,0,0,0,0,16,0,0,
-58,99,58,0,3,30,0,0,0,45,0,45,32,21,28,2,51,2,44,9,7,57,2,3,57,2,9,7,45,1,28,27,21,26,32,31,61,37,45,1,2,2,2,60,19,60,38,1,31,15,30,36,62,26,5,3,1,32,63,17,3,1,1,18,33,26,15,32,21,27,26,2,59,33,28,16,13,32,17,42,43,1,2,32,2,50,51,2,4,1,2,13,65,20,42,32,2,41,2,9,3,43,2,52,60,22,1,2,65,71,46,4,47,66,47,6,3,50,5,3,53,15,27,31,42,13,43,67,22,60,75,56,5,8,50,60,47,0,45,7,3,67,26,63,80,5,63,224,50,62,23,63,212,61,83,63,184,6,63,248,56,63,247,61,50,66,190,7,66,254,56,10,66,254,61,67,70,182,8,73,86,80,53,12,71,31,17,26,16,78,162,16,30,13,35,78,32,15,24,31,78,23,0,9,18,27,30,2,28,32,4,2,21,26,2,13,24,24,42,83,66,43,2,16,27,1,0,9,2,61,76,5,61,252,61,44,0,9,36,4,86,29,84,42,53,63,31,77,28,52,60,39,4,47,50,9,
-7,61,46,37,61,190,6,61,222,36,5,63,140,5,63,76,5,63,156,61,190,63,60,61,158,24,21,26,17,42,36,4,57,2,37,60,20,36,5,60,24,60,20,10,72,26,2,74,41,0,9,74,46,75,194,96,19,30,27,93,34,24,27,15,13,24,2,21,51,92,18,31,18,36,42,3,94,21,35,20,21,24,17,2,42,14,32,26,42,43,2,51,96,28,75,58,2,77,93,2,2,31,28,30,42,100,28,8,66,23,7,101,20,66,30,5,61,103,4,11,102,20,60,20,7,11,62,105,6,68,29,8,103,29,8,10,57,2,6,62,90,21,18,42,21,49,4,99,26,64,42,5,57,9,3,57,7,67,40,2,18,24,21,28,66,50,21,50,51,102,21,62,72,12,3,43,14,30,17,13,23,1,72,59,87,56,71,109,0,0,0,0,0,0,0,0,0,0,0,0,0,0,0,0,0,0,0,0,0,0,0,0,0,0,0,0,0,0,0,0,0,0,0,0,0,0,0,0,0,0,0,0,0,0,0,0,0,0,0,0,0,0,0,0,0,0,0,0,0,0,0,0,0,0,0,0,
+58,99,58,0,3,79,0,0,0,45,0,45,2,6,16,2,32,17,15,20,2,16,17,25,27,1,61,16,42,15,43,2,5,3,4,9,2,25,13,36,2,20,33,26,32,61,18,15,2,14,37,0,45,31,13,43,1,62,17,32,21,28,2,51,2,44,9,7,57,2,3,57,2,9,7,45,1,28,27,21,26,32,31,61,37,45,1,2,2,2,60,19,60,38,1,31,15,30,36,62,26,5,3,1,32,63,17,3,1,1,18,33,26,15,32,21,27,26,2,59,33,28,16,13,32,17,42,43,1,2,32,2,50,51,2,4,1,2,13,65,20,42,32,2,41,2,9,3,43,2,52,60,22,1,2,65,71,46,4,47,66,47,6,3,50,5,3,53,15,27,31,42,13,43,67,22,60,75,56,5,8,50,60,47,0,45,7,3,67,26,63,80,5,63,224,50,62,23,63,212,61,83,63,184,6,63,248,56,63,247,61,50,66,190,7,66,254,56,10,66,254,61,67,70,182,8,73,86,80,53,12,71,31,17,26,16,78,162,16,30,13,35,78,32,15,24,31,78,23,0,9,18,27,30,2,28,
+32,4,2,21,26,2,13,24,24,42,83,66,43,2,16,27,1,0,9,2,61,76,5,61,252,61,44,0,9,36,4,86,29,84,42,53,63,31,77,28,52,60,39,4,47,50,9,7,61,46,37,61,190,6,61,222,36,5,63,140,5,63,76,5,63,156,61,190,63,60,61,158,24,21,26,17,42,36,4,57,2,37,60,20,36,5,60,24,60,20,10,72,26,2,74,41,0,9,74,46,75,194,96,19,30,27,93,34,24,27,15,13,24,2,21,51,92,18,31,18,36,42,3,94,21,35,20,21,24,17,2,42,14,32,26,42,43,2,51,96,28,75,58,2,77,93,2,2,31,28,30,42,100,28,8,66,23,7,101,20,66,30,5,61,103,4,11,102,20,60,20,7,11,62,105,6,68,29,8,103,29,8,10,57,2,6,62,90,21,18,42,21,49,4,99,26,64,42,5,57,9,3,57,7,67,40,2,18,24,21,28,66,50,21,50,51,102,21,62,72,12,3,43,14,30,17,13,23,1,72,59,87,56,71,109,0,0,0,0,0,0,0,0,0,0,0,0,0,0,0,0,0,0,0,0,0,
 0,0,0,0,0,0,0,0,0,0,0,0,0,0,0,0,0,0,0,0,0,0,0,0,0,0,0,0,0,0,0,0,0,0,0,0,0,0,0,0,0,0,0,0,0,0,0,0,0,0,0,0,0,0,0,0,0,0,0,0,0,0,0,0,0,0,0,0,0,0,0,0,0,0,0,0,0,0,0,0,0,0,0,0,0,0,0,0,0,0,0,0,0,0,0,0,0,0,0,0,0,0,0,0,0,0,0,0,0,0,0,0,0,0,0,0,0,0,0,0,0,0,0,0,0,0,0,0,0,0,0,0,0,0,0,0,0,0,0,0,0,0,0,0,0,0,0,0,0,0,0,0,0,0,0,0,0,0,0,0,0,0,0,0,0,0,0,0,0,0,0,0,0,0,0,0,0,0,0,0,0,0,0,0,0,0,0,0,0,0,0,0,0,0,0,0,0,0,0,0,0,0,0,0,0,0,0,0,0,0,0,0,0,0,0,0,0,0,0,0,0,0,0,0,0,0,0,0,0,0,0,0,0,0,0,0,0,0,0,0,0,0,0,0,0,0,0,0,0,0,0,0,0,0,0,0,
 0,0,0,0,0,0,0,0,0,0,0,0,0,0,0,0,0,0,0,0,0,0,0,0,0,0,0,0,0,0,0,0,0,0,0,0,0,0,0,0,0,0,0,0,0,0,0,0,0,0,0,0,0,0,0,0,0,0,0,0,0,0,0,0,0,0,0,0,0,0,0,0,0,0,0,0,0,0,0,0,0,0,0,0,0,0,0,0,0,0,0,0,0,0,0,0,0,0,0,0,0,0,0,0,0,0,0,0,0,0,0,0,0,0,0,0,0,0,0,0,0,0,0,0,0,0,0,0,0,0,0,0,0,0,0,0,0,0,0,0,0,0,0,0,0,0,0,0,0,0,0,0,0,0,0,0,0,0,0,0,0,0,0,0,0,0,0,0,0,0,0,0,0,0,0,0,0,0,0,0,0,0,0,0,0,0,0,0,0,0,0,0,0,0,0,0,0,0,0,0,0,0,0,0,0,0,0,0,0,0,0,0,0,0,0,0,0,0,0,0,0,0,0,0,0,0,0,0,0,0,0,0,0,0,0,0,0,0,0,0,0,0,0,0,0,0,0,0,0,0,0,0,0,0,0,0,
 0,0,0,0,0,0,0,0,0,0,0,0,0,0,0,0,0,0,0,0,0,0,0,0,0,0,0,0,0,0,0,0,0,0,0,0,0,0,0,0,0,0,0,0,0,0,0,0,0,0,0,0,0,0,0,0,0,0,0,0,0,0,0,0,0,0,0,0,0,0,0,0,0,0,0,0,0,0,0,0,0,0,0,0,0,0,0,0,0,0,0,0,0,0,0,0,0,0,0,0,0,0,0,0,0,0,0,0,0,0,0,0,0,0,0,0,0,0,0,0,0,0,0,0,0,0,0,0,0,0,0,0,0,0,0,0,0,0,0,0,0,0,0,0,0,0,0,0,0,0,0,0,0,0,0,0,0,0,0,0,0,0,0,0,0,0,0,0,0,0,0,0,0,0,0,0,0,0,0,0,0,0,0,0,0,0,0,0,0,0,0,0,0,0,0,0,0,0,0,0,0,0,0,0,0,0,0,0,0,0,0,0,0,0,0,0,0,0,0,0,0,0,0,0,0,0,0,0,0,0,0,0,0,0,0,0,0,0,0,0,0,0,0,0,0,0,0,0,0,0,0,0,0,0,0,0,
